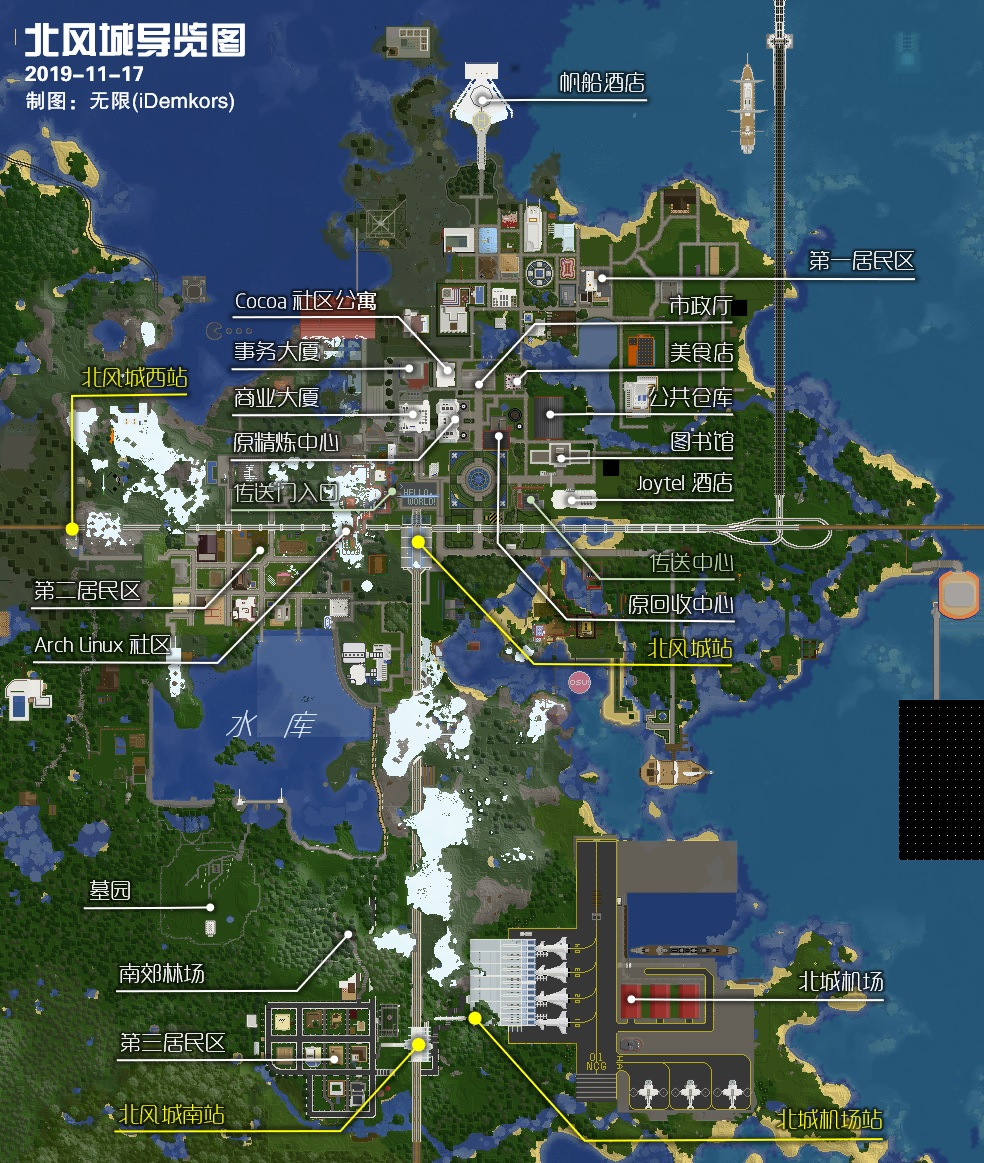
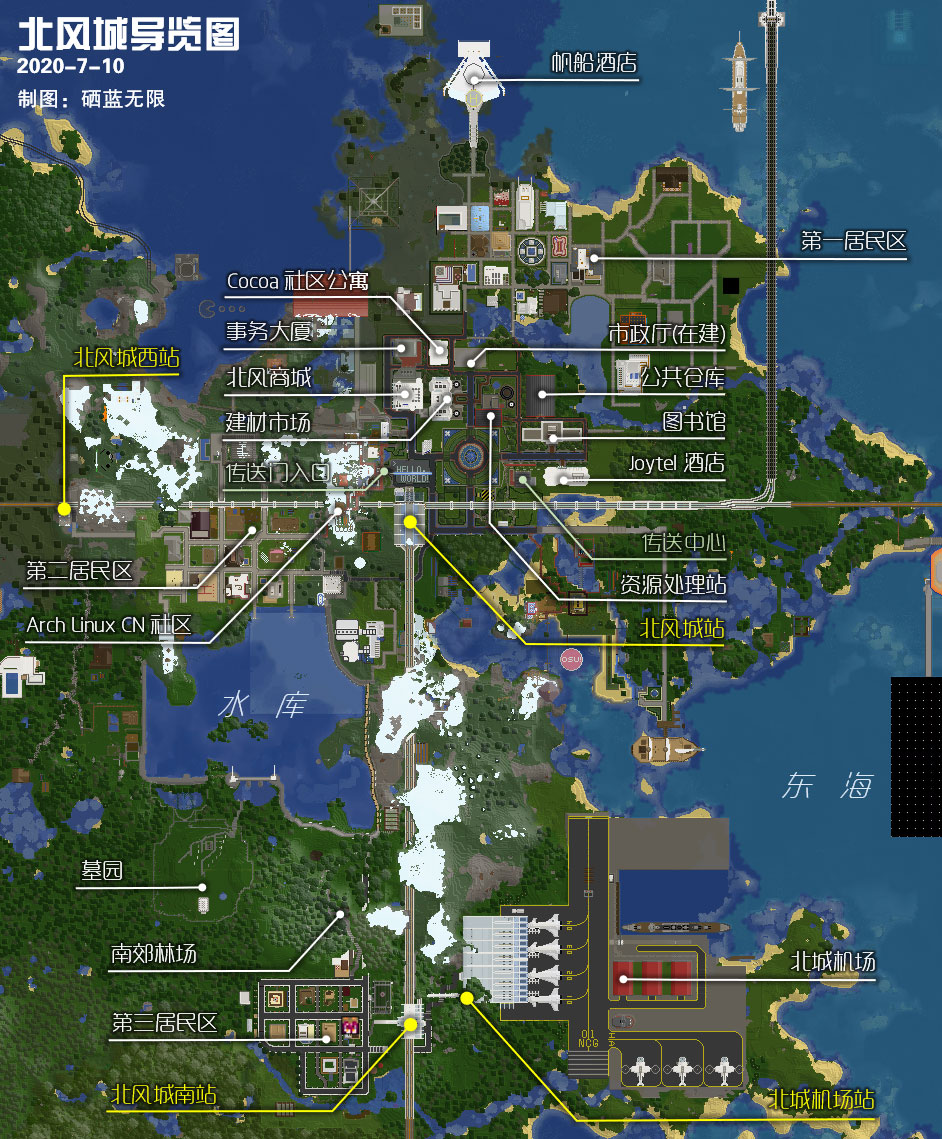
UPDATE Northwind City, Projects: Update the map; Decoration for the Burj Al Arab has started since June

diff --git a/nyaa/realms/northwind.md b/nyaa/realms/northwind.md
@@ -27,7 +27,7 @@
 
 ## 商业服务
 
-#### 北风城商业大厦
+#### 北风商城
 
 坐标  `(240, -2400)`；<br />
 一楼仅用于设置银行柜台。  
@@ -64,9 +64,10 @@
 坐标 `(326, -2407)`；<br />
 提供若干加工业务，包括：
 - 加工**白色混凝土粉末及预拌成品**，和工业级**红沙、粘土**等副产品。
+- 碾碎石料（石头 → 圆石、圆石 → 沙砾）。
 - 从TNT提取**火药**。
 - 给原木剥皮。
-- 从腐肉提取蛋白质，缝制**线、羽毛**。用线也可制作羽毛。
+- 从腐肉提取蛋白质，缝制**线、羽毛**。或者将羽毛剥开为线。
 
 该处曾称为「魔法分解中心」，在1.11.2版本及以前，以固定价格“回收”部分常见黑化怪战利品。2017 年 6 月，旧木牌商店（SignShop）插件下线之后，其失去了原本功能。
 
@@ -100,9 +101,7 @@
 
 #### 帆船酒店（在建）
 
-位于第一居民区正北，规划为**飞行塔**。目前空有外表，仅可于正门前仰望。
-
-!> [酒店内饰项目现正招标，欢迎踊跃投标。](https://bbs.nyaa.cat/d/1342--/2 "好耶是新坑。北城帆船酒店招标建设")
+位于第一居民区正北，规划为宾馆兼**飞行塔**。目前在建，由 *`Kujo__Jolyne`* 负责。
 
 #### ~~美食店（蜂蜜蛋糕房）~~
 
@@ -120,7 +119,7 @@
 
 #### 羊驼与家兔乐园
 
-位于北风城南站西侧。集中所有品种的羊驼、家兔（杀手兔除外），以及北极熊，可供观赏。  
+位于北风城南站西侧。集中所有品种的羊驼、家兔（杀手兔除外），以及北极熊、熊猫等，可供观赏。  
 本乐园为_无极限拉玛控股（集团）有限公司_ 所有。游览时请遵守当地相关规定。
 
 #### 墓园
@@ -212,10 +211,11 @@
     * 杂志副本现可于**北风城图书馆**查阅。
   + 九月，因内容调整，精炼中心及图书馆失去主要功能。
   + 十月，城市不再以“主城”自居；改名“北风城”，沿用至今。
-  + 居民委员会于 12 月 1 日成立，*无限* 任主任；并恢复代理新北市管辖权。
+  + 居民委员会于 12 月 1 日成立，*无限* 任主任；并收回了新北市管辖权。
 - **2020 年**
-  + 3 月 1 日，原精炼中心、分解中心相继改制，接收柚木小镇的工业功能。
+  + 3 月 1 日，原精炼中心、分解中心相继改造，接收柚木小镇的工业功能。
   + 五月起，*无限* 开始[第二次大翻修](https://bbs.nyaa.cat/d/1637)工作。主要任务是翻新道路、城市绿化、翻修公共建筑、加强安保等。
+  + 六月起，帆船酒店开始装修<sup>（此前闲置达五年之久）</sup>。
   + 7 月 8 日起，市政厅彻底重建。一旁的蛋糕房也被移除了，以让出空间。
 
 ----------
@@ -223,6 +223,6 @@
 ## 你知道吗？
 
 -   北风城曾经存在环城铁路线、地铁系统。目前仍可于西北郊、北风城西站，发现环城线之遗迹（如支柱、月台）；中心城区广场、图书馆等处可见地铁站遗迹<sup>（图书馆站现已完全封闭）</sup>。
-- 在北风城东郊近海上，有一片巨大的、功能未知的浮空方块“阵列”，在原版地图上，其形如显像管测试画面。因高度位于世界最高`Y=255`，其被 VoxelMap 显示为“一团黑色矩形”；而在 JourneyMap 则显示正常。
+- 在北风城东郊近海上，有一片巨大的、功能未知的浮空方块“阵列”，在原版地图上，其形如显像管测试画面。因高度位于世界最高`Y=255`，其被 VoxelMap 显示为“一团黑色矩形”<sup>（本页所示地图的右下方）</sup>；而在 JourneyMap 则显示正常。
 - 在第一区某民居，有全窝罕见的**僵尸马**。
 - 在城区西北部的沼泽区域（包括商业大厦旁的树下），有机会生成史莱姆。

diff --git a/nyaa/projects.md b/nyaa/projects.md
@@ -15,6 +15,25 @@
 - **【下界交通网】**  
 联系主世界热门聚落的[轨道网络](nyaa/projects/nether-traffic.md)，由*无限 `CealliumInfinity`* 负责统筹维护，正持续拓展。如有意扩建，请遵循[轨道工程建设规范](space/building/railway-construction-standard#二、下界交通网部分)下界部分，薪酬面议。
 
+
+### 北风城帆船酒店内饰项目
+?> :construction_worker: 当前项目负责人：*`Kujo__Jolyne`*
+
+现帆船酒店空有外壳，亟待装修。需要完成以下任务：
+- 将建筑整体墙壁支柱等所有羊毛/雪材质替换为相同颜色的混凝土或石英。
+- 完成每一层的内部工程，包括：
+  + 一层大厅；
+  + 二层/三层 餐厅和商场（提供餐桌和摆放商店牌子的架子；
+  + 4 - 12 层住宿区，每个房间里有基本生活设施和入居提示；
+  + 13 层室内温泉；
+  + 14 层观景餐厅；
+  + 15 层直升机起降平台和飞行塔；
+  + 地下部分建设多层海洋馆。
+- 设置普通楼梯和水电梯。
+- 全建筑内外照明。
+
+材料自购。替换下来的材料可自用或销售。
+
 ### 飞行塔项目（已过时）
 
 飞行塔由[喵窝飞行家里程俱乐部](space/nfmc)规划管理，用于支撑喵窝世界飞行事业的发展。
@@ -59,20 +78,3 @@
 - 各类景观建筑，例如街道中的喷泉和小型花园等将为工程加分。
 
 * 根据村落的规模，此工程的补贴/奖励约为 10,000 至 200,000 节操
-
-### 北风城帆船酒店内饰项目
-现帆船酒店空有外壳，亟待装修。需要完成以下任务：
-- 将建筑整体墙壁支柱等所有羊毛/雪材质替换为相同颜色的混凝土或石英。
-- 完成每一层的内部工程，包括：
-  + 一层大厅；
-  + 二层/三层 餐厅和商场（提供餐桌和摆放商店牌子的架子；
-  + 4 - 12 层住宿区，每个房间里有基本生活设施和入居提示；
-  + 13 层室内温泉；
-  + 14 层观景餐厅；
-  + 15 层直升机起降平台和飞行塔；
-  + 地下部分建设多层海洋馆。
-- 设置普通楼梯和水电梯。
-- 全建筑内外照明。
-
-材料自购。替换下来的材料可自用或销售。  
-有意接手者，请于[BBS帖子](https://bbs.nyaa.cat/d/1342--)报名投标。**薪酬面议。**
